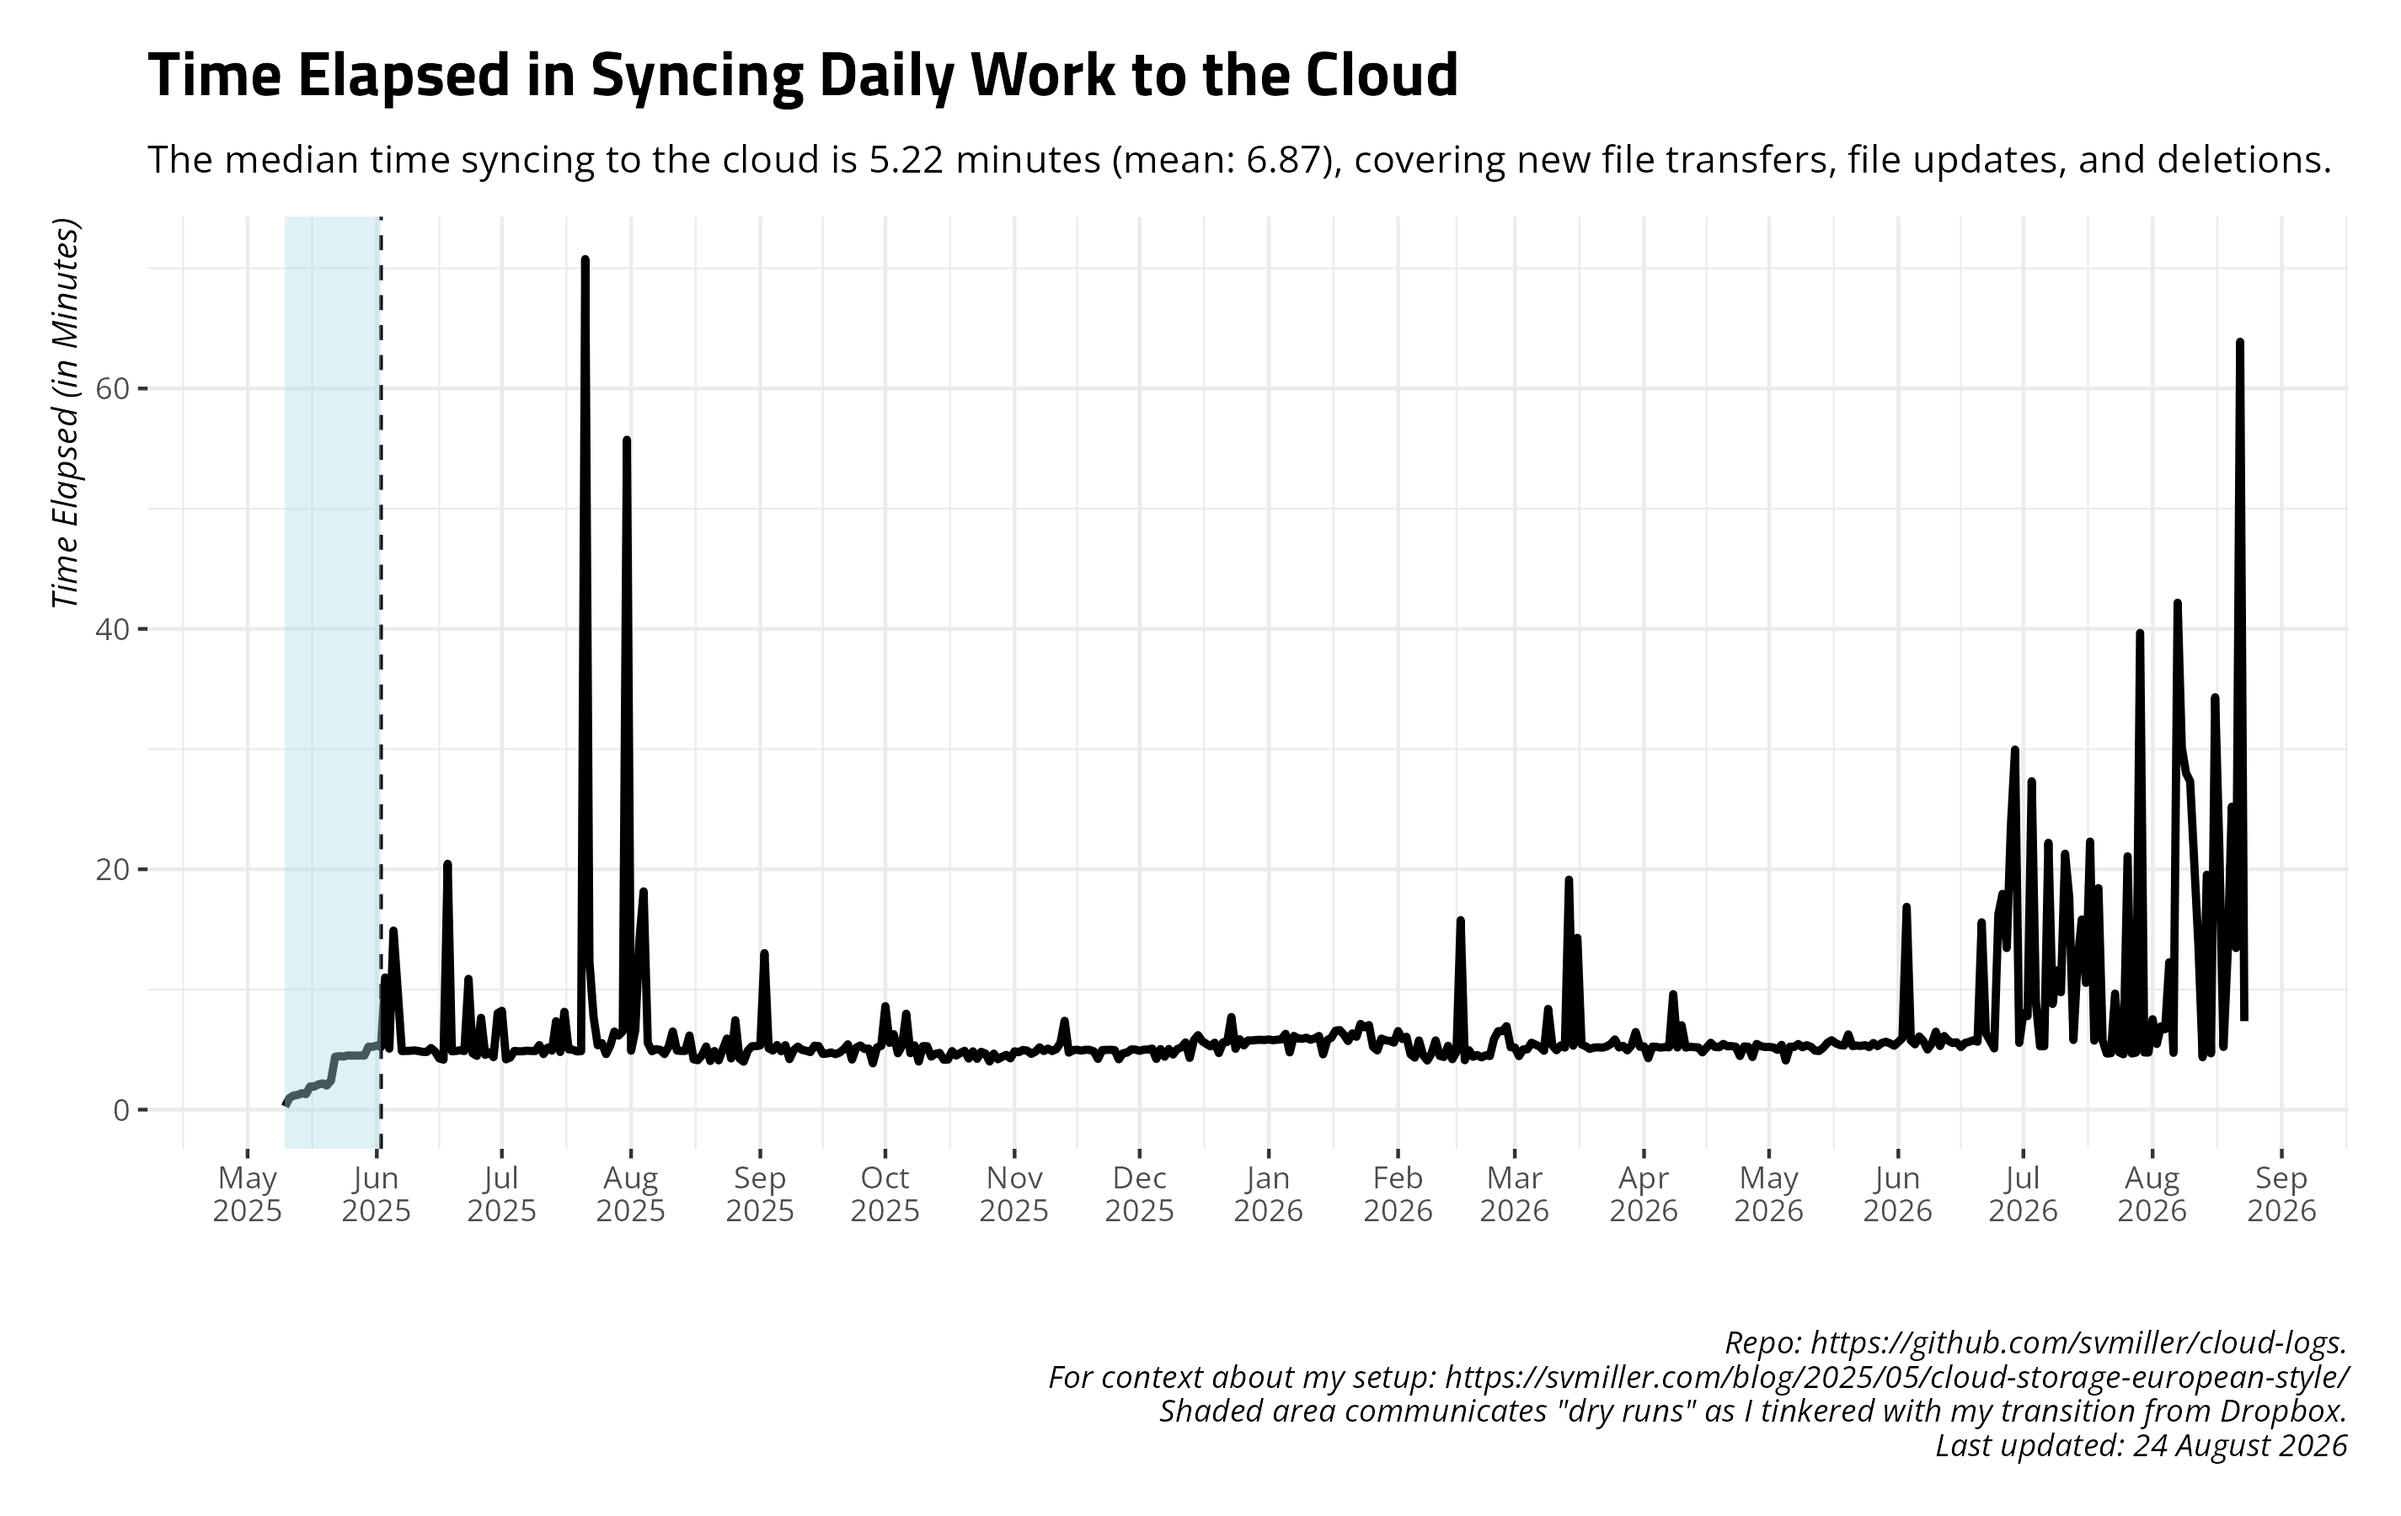
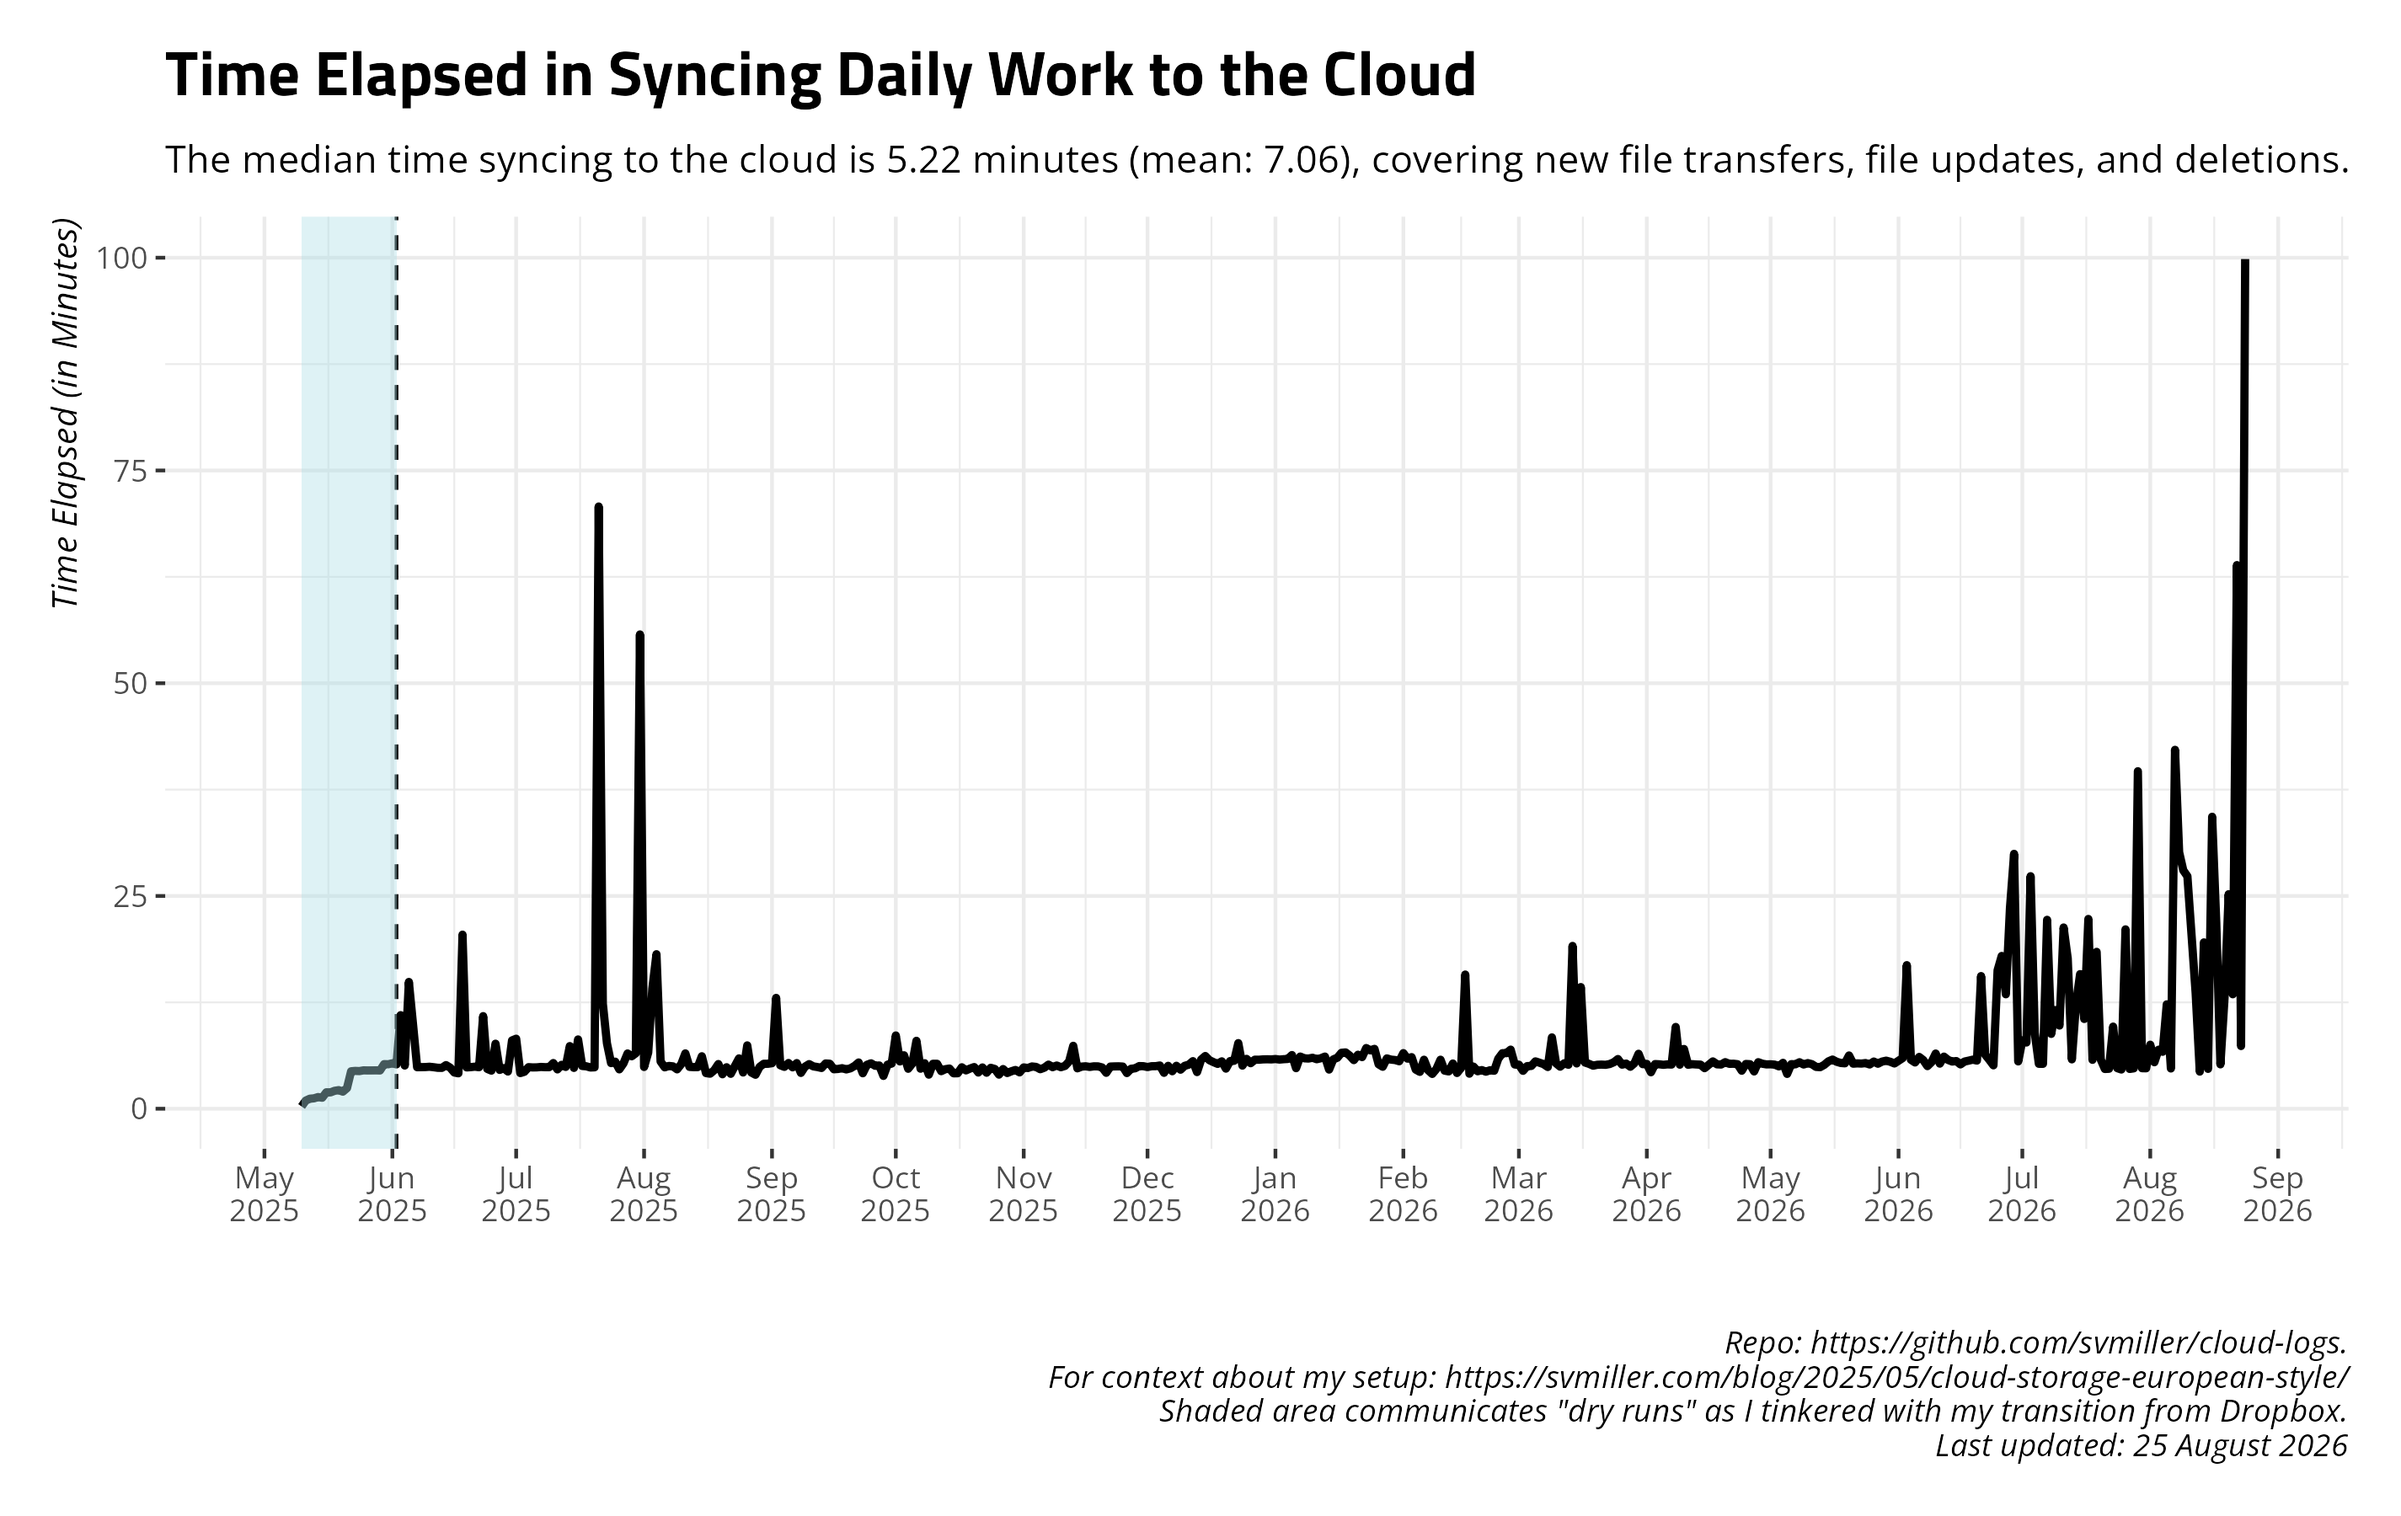
Date: 2026-08-25 09:00:33. Hi mom!

diff --git a/README.md b/README.md
@@ -25,19 +25,19 @@ and uploads to Github.
 ## Summary of Past 14 Days
 
     #> # A tibble: 14 × 4
-    #>    date       ftransfer stransfer   elapsed  
-    #>    <date>         <dbl> <chr>       <chr>    
-    #>  1 2026-08-09        24 39.296 KiB  28m0.8s  
-    #>  2 2026-08-10        21 49.156 KiB  27m18.9s 
-    #>  3 2026-08-12        35 2.452 MiB   13m34.4s 
-    #>  4 2026-08-13        28 1.944 MiB   4m21.6s  
-    #>  5 2026-08-14        26 14.735 MiB  19m32.8s 
-    #>  6 2026-08-15         0 <NA>        4m40.9s  
-    #>  7 2026-08-16        10 12.911 MiB  34m18.6s 
-    #>  8 2026-08-17        62 1.679 MiB   21m48.3s 
-    #>  9 2026-08-18        47 1.098 MiB   5m12.8s  
-    #> 10 2026-08-19         4 260.812 KiB 13m2.0s  
-    #> 11 2026-08-20        26 14.666 MiB  25m12.7s 
-    #> 12 2026-08-21        28 2.154 MiB   13m26.9s 
-    #> 13 2026-08-22         2 6.725 KiB   1h3m53.0s
-    #> 14 2026-08-23        13 2.825 MiB   7m21.9s
+    #>    date       ftransfer stransfer   elapsed   
+    #>    <date>         <dbl> <chr>       <chr>     
+    #>  1 2026-08-10        21 49.156 KiB  27m18.9s  
+    #>  2 2026-08-12        35 2.452 MiB   13m34.4s  
+    #>  3 2026-08-13        28 1.944 MiB   4m21.6s   
+    #>  4 2026-08-14        26 14.735 MiB  19m32.8s  
+    #>  5 2026-08-15         0 <NA>        4m40.9s   
+    #>  6 2026-08-16        10 12.911 MiB  34m18.6s  
+    #>  7 2026-08-17        62 1.679 MiB   21m48.3s  
+    #>  8 2026-08-18        47 1.098 MiB   5m12.8s   
+    #>  9 2026-08-19         4 260.812 KiB 13m2.0s   
+    #> 10 2026-08-20        26 14.666 MiB  25m12.7s  
+    #> 11 2026-08-21        28 2.154 MiB   13m26.9s  
+    #> 12 2026-08-22         2 6.725 KiB   1h3m53.0s 
+    #> 13 2026-08-23        13 2.825 MiB   7m21.9s   
+    #> 14 2026-08-24       112 19.678 MiB  1h39m50.5s
